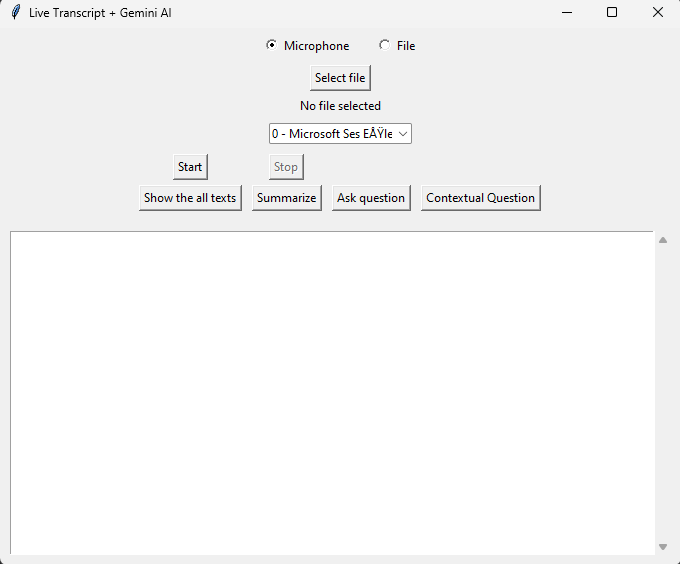
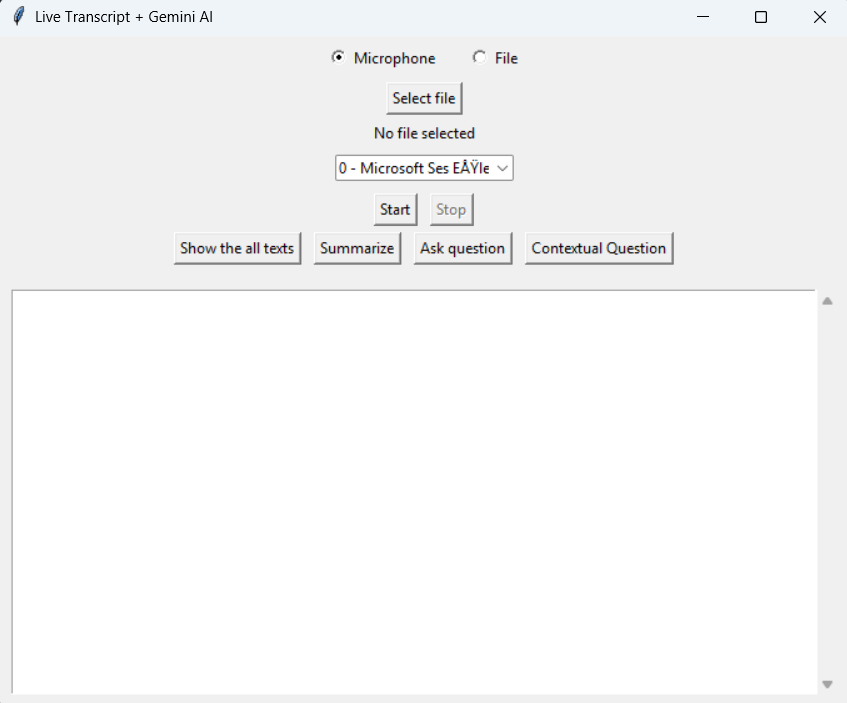
main and images updated

diff --git a/main.py b/main.py
@@ -14,6 +14,7 @@ from arrays import text_embeddings, transcript_lines
 import os
 import random
 from datetime import datetime
+import textwrap
 
 # ----- CONFIG -----
 model = WhisperModel(MODEL_SIZE, device=DEVICE, compute_type=COMPUTE_TYPE)
@@ -97,6 +98,71 @@ def find_most_relevant_context(question, top_n=3):
     similarities.sort(key=lambda x: x[1], reverse=True)
     
     return "\n".join([f"[{i+1}] {text}" for i, (text, sim) in enumerate(similarities[:top_n])])
+
+def gemini_generate_content_with_chunk(prompt_text, chunk_size=2000):
+    lines = prompt_text.split("\n")
+    chunks = []
+    current_chunk = ""
+    for line in lines:
+        if len(current_chunk) + len(line) + 1 > chunk_size:
+            if current_chunk:  # boş değilse ekle
+                chunks.append(current_chunk.strip())
+            current_chunk = line
+        else:
+            if current_chunk:
+                current_chunk += "\n" + line
+            else:
+                current_chunk = line  # boşsa direkt ata
+    if current_chunk.strip():
+        chunks.append(current_chunk.strip())
+
+    chunk_summaries = []
+
+    url = "https://generativelanguage.googleapis.com/v1beta/models/gemini-2.0-flash:generateContent"
+    headers = {
+        "Content-Type": "application/json",
+        "X-goog-api-key": API_KEY
+    }
+
+    for chunk in chunks:
+        chunk_prompt = textwrap.dedent(f"""\
+            Aşağıdaki metni, önemli noktaları kaybetmeden, kısa ve anlaşılır bir şekilde özetle.
+            - Gereksiz tekrarları çıkarma.
+            - Madde işaretleriyle sunabilirsin.
+            Metin:
+            {chunk}""")
+    
+        data = {"contents": [{"parts": [{"text": chunk_prompt}]}]}
+
+        try:
+            response = requests.post(url, headers=headers, json=data, timeout=15)
+            response.raise_for_status()
+            chunk_summary = response.json()["candidates"][0]["content"]["parts"][0]["text"].strip()
+        except Exception as e:
+            chunk_summary = f"[API Error] {e}"
+
+        chunk_summaries.append(chunk_summary)
+
+    if len(chunk_summaries) == 1:
+        return chunk_summaries[0]
+
+    prompt_template =  """
+        Aşağıdaki konuşmayı kısa ve anlaşılır şekilde özetle.
+        - Sadece önemli noktaları vurgula
+        - Gereksiz tekrar ve detayları çıkar
+        - Gerekirse madde işaretleriyle sun"""
+    
+    joined_summaries = '\n'.join(chunk_summaries)
+    final_prompt = textwrap.dedent(f"{prompt_template}\n{joined_summaries}")
+
+    try:
+        response = requests.post(url, headers=headers, json={"contents": [{"parts": [{"text": final_prompt}]}]}, timeout=15)
+        response.raise_for_status()
+        final_summary = response.json()["candidates"][0]["content"]["parts"][0]["text"].strip()
+    except Exception as e:
+        final_summary = f"[API Error] {e}"
+
+    return final_summary
 
 # return generated contents
 def gemini_generate_content(prompt_text):
@@ -344,11 +410,14 @@ def save_transcript_with_summary():
 frame = tk.Frame(root)
 frame.pack(pady=5)
 
-start_btn = tk.Button(frame, text="Start", command=start_recording)
-start_btn.grid(row=0, column=0, padx=5)
+frame_buttons = tk.Frame(frame)
+frame_buttons.grid(row=0, column=0, columnspan=4) 
 
-stop_btn = tk.Button(frame, text="Stop", command=stop_recording, state=tk.DISABLED)
-stop_btn.grid(row=0, column=1, padx=5)
+start_btn = tk.Button(frame_buttons, text="Start", command=start_recording)
+start_btn.pack(side=tk.LEFT, padx=5)
+
+stop_btn = tk.Button(frame_buttons, text="Stop", command=stop_recording, state=tk.DISABLED)
+stop_btn.pack(side=tk.LEFT, padx=5)
 
 tk.Button(frame, text="Show the all texts", command=lambda: show_all_text()).grid(row=1, column=0, padx=5, pady=5)
 tk.Button(frame, text="Summarize", command=lambda: summarize_text()).grid(row=1, column=1, padx=5, pady=5)
@@ -376,14 +445,8 @@ def summarize_text():
         messagebox.showinfo("Info", "Nothing to summarize.")
         return
     full_text = " ".join(transcript_lines)
-    summary = gemini_generate_content(f"""
-        Lütfen aşağıdaki konuşmayı kısa ve anlaşılır bir şekilde özetle.
-        Özellikle **önemli noktaları ve kritik bilgileri** vurgula.
-        Gerekirse madde işaretleri ile sun ve gereksiz detayları atla.
-
-        Konuşma:
-        {full_text}
-        """)
+    summary = gemini_generate_content_with_chunk(full_text, chunk_size=2000)
+    
     messagebox.showinfo("Gemini Summary", summary)
 
 def generate_summary_text():
@@ -392,18 +455,9 @@ def generate_summary_text():
 
     full_text = " ".join(transcript_lines)
 
-    summary = gemini_generate_content(f"""
-        Aşağıdaki konuşmayı kısa ve anlaşılır şekilde özetle.
-        - Sadece önemli noktaları vurgula
-        - Gereksiz tekrar ve detayları çıkar
-        - Gerekirse madde işaretleriyle sun
+    summary = gemini_generate_content_with_chunk(full_text,chunk_size=2000)
 
-        Konuşma:
-        {full_text}
-    """)
-
-    return summary.strip()
-
+    return summary
 
 def qa_text():
     if not transcript_lines:
@@ -412,17 +466,24 @@ def qa_text():
     question = simpledialog.askstring("Question", "Write a question about the text:")
     if question:
         full_text = " ".join(transcript_lines)
+
         prompt = f"""
-            Aşağıdaki konuşmaya göre soruyu kısa ve anlaşılır bir şekilde yanıtla.
-            Metin:
-            {full_text}
+        Sen bir soru-cevap asistanısın. Sana bir soru ve özet bir metin verilecek. 
+        Metni kullanarak SADECE soruya odaklan ve net bir yanıt ver. 
+        - Gereksiz özetleme yapma.
+        - Sadece sorunun cevabını ver.
+        - Yanıtını kısa, açık ve anlaşılır tut.
 
-            Soru:
-            {question}
+        Soru:
+        {question}
 
-            Cevap:
-            """
-        answer = gemini_generate_content(prompt)
+        Metin:
+        """
+        
+        summary = gemini_generate_content_with_chunk(full_text, chunk_size=2000)
+
+        answer = gemini_generate_content(f"{prompt}\n{summary}\n\nCevap:")
+
         messagebox.showinfo("Gemini Response", answer)
 
 def contextual_qa_text():
